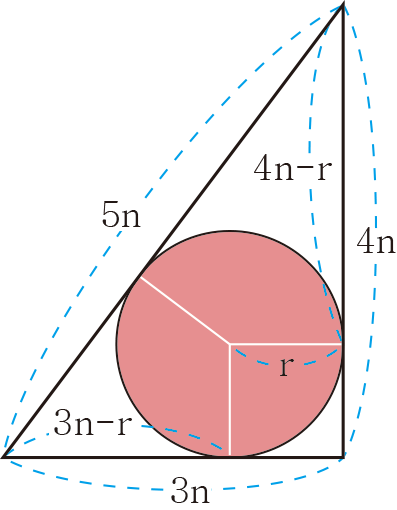
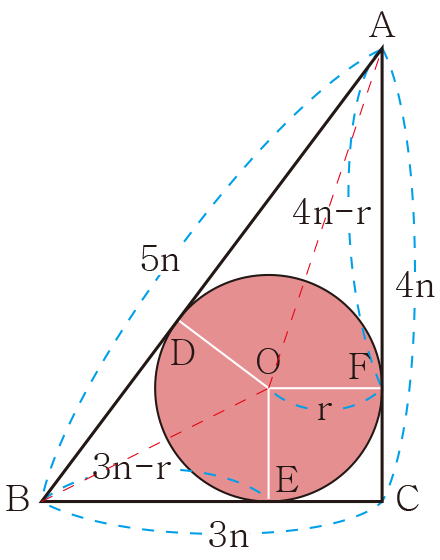
문구 수정

diff --git a/_posts/stem/math/2025-01-12-알콰리즈미의완전제곱식.md b/_posts/stem/math/2025-01-12-알콰리즈미의완전제곱식.md
@@ -20,18 +20,18 @@ use_math: true
 
 ### 1. 한 변의 길이가 x인 내부의 정사각형
 
-- 먼저 한 변의 길이가 $ x $인 정사각형을 생각해 보자.
-- 이 정사각형의 상하좌우로 $ \displaystyle\frac{5}{2} $만큼씩 연장하여 한 변의 길이가 $ x $이고, 넓이가 $ \displaystyle\frac{5x}{2} $인 직사각형을 붙인다. <br/>
-  (왜 $ \displaystyle\frac{5}{2} $ ($ =\displaystyle\frac{10}{4} $)인지는 아래 다시 설명할 것이다)
-- 그럼 가운데 정사각형과 4개의 직사각형의 합은 $ x^2 + 4 \times \displaystyle\frac{5x}{2} $이므로 정리하면 $ x^2 + 10x $이고, 이 값은 $ \color{red}{39} $이다.
+- 먼저 한 변의 길이가 $ x $인 정사각형을 생각해 봅시다.
+- 이 정사각형의 상하좌우로 $ \displaystyle\frac{5}{2} $만큼씩 연장하여 한 변의 길이가 $ x $이고, 넓이가 $ \displaystyle\frac{5x}{2} $인 직사각형을 붙입니다. <br/>
+  (왜 $ \displaystyle\frac{5}{2} $ ($ =\displaystyle\frac{10}{4} $)인지는 아래 "**3. 식으로 일반화 하기**"에 간단히 설명하겠습니다)
+- 그럼 가운데 정사각형과 4개의 직사각형의 합은 $ x^2 + 4 \times \displaystyle\frac{5x}{2} $이므로 정리하면 $ x^2 + 10x $이고, 이 값은 위에서 $ \color{red}{39} $로 정했습니다.
 
 ### 2. 확장한 영역까지 아우르는 외부의 정사각형
 
-- 이번에는 위에 그린 십자가 모양을 둘러싸는 정사각형을 생각해 보자.
-- 큰 정사각형의 한 변의 길이는 $ x + 2\times \displaystyle\frac{5}{2} = x + 5 $이고, 넓이는 $ \color{green}{(x + 5)^2} $이다.
-- 한 편, 큰 정사각형의 넓이는 위에서 구한 십자 모양의 넓이($ = \color{red}{39} $)와 네 귀퉁이의 작은 정사각형의 넓이의 합과 같다.
-- 네 귀퉁이의 정사각형의 한 변의 길이는 $ \displaystyle\frac{5}{2} $므로, 한 개 정사각형의 넓이는 $ \left(\displaystyle\frac{5}{2}\right)^2 = \displaystyle\frac{25}{4} $이다. 따라서 4개 정사각형의 넓이의 합은 $ 4 \times \displaystyle\frac{25}{4} = \color{blue}{25} $다.
-- 따라서 <span style="color:green">(큰 정사각형의 넓이)</span> = <span style="color:red">(십자 모양의 넓이)</span> + <span style="color:blue">(네 귀퉁이 정사각형의 넓이의 합)</span> 이므로,
+- 이번에는 위에 그린 십자가 모양을 둘러싸는 정사각형을 생각해 봅시다.
+- 큰 정사각형의 한 변의 길이는 $ x + 2\times \displaystyle\frac{5}{2} = x + 5 $이고, 그렇다면 넓이는 $ \color{green}{(x + 5)^2} $입니다.
+- 한 편, 큰 정사각형의 넓이는 위에서 구한 십자 모양의 넓이($ = \color{red}{39} $)와 네 귀퉁이의 작은 정사각형의 넓이의 합과 같습니다.
+- 네 귀퉁이의 정사각형의 한 변의 길이는 $ \displaystyle\frac{5}{2} $므로, 한 개 정사각형의 넓이는 $ \left(\displaystyle\frac{5}{2}\right)^2 = \displaystyle\frac{25}{4} $입니다. 따라서 4개 정사각형의 넓이의 합은 $ 4 \times \displaystyle\frac{25}{4} = \color{blue}{25} $입니다.
+- <span style="color:green">(큰 정사각형의 넓이)</span> = <span style="color:red">(십자 모양의 넓이)</span> + <span style="color:blue">(네 귀퉁이 정사각형의 넓이의 합)</span> 이므로 각 값을 대입하면,
 
   $$
   \begin{aligned}
@@ -47,14 +47,15 @@ use_math: true
 
 ### 3. 식으로 일반화 하기
 
-- 여기서 눈여겨 볼 부분은 2차식을 $ x^2 + bx = c $로 표현할 때, 한 변이 $ x $인 정사각형의 연장 길이를 $ \displaystyle\frac{b}{4} $로 정했다는 것이다. 그렇다면 위에서 다룬 큰 정사각형의 넓이는 $ \left(x + \displaystyle\frac{b}{2}\right)^2 $가 된다. ($ 2 \times \displaystyle\frac{b}{4} = \displaystyle\frac{b}{2} $)
+- 여기서 눈여겨 볼 부분은 2차식을 $ x^2 + bx = c $로 표현할 때, 한 변이 $ x $인 정사각형의 연장 길이를 $ \displaystyle\frac{b}{4} $로 정했다는 것입니다. 이렇게 하면 작은 사각형이 모두 4개이므로, 넓이를 합하면 자연스럽게 $ b $만 남길 수 있습니다.
+- 이제 위에서 다룬 큰 정사각형의 넓이는 $ \left(x + \displaystyle\frac{b}{2}\right)^2 $가 됩니다. ($ 2 \times \displaystyle\frac{b}{4} = \displaystyle\frac{b}{2} $)
 
-- 그렇다면, 위 식은 아래와 같이 일반화된다.
+- 그렇다면, 위 식은 아래와 같이 일반화 됩니다.
 
   $$
   \begin{aligned}
-  \left(x + \frac{b}{2} \right)^2 &= c + \left(\frac{b}{2}\right)^2\qquad (1) \\
-  x + \frac{b}{2} &= \sqrt{c + \left(\frac{b}{2}\right)^2}\qquad (2) \\
+  \left(x + \frac{b}{2} \right)^2 &= c + \left(\frac{b}{2}\right)^2 &\qquad (1) \\
+  x + \frac{b}{2} &= \sqrt{c + \left(\frac{b}{2}\right)^2} &\qquad (2) \\
   x &= \sqrt{c + \left(\frac{b}{2}\right)^2} - \frac{b}{2}
   \end{aligned}
   $$
@@ -63,16 +64,18 @@ use_math: true
 
 ### 4. 근이 두 개인 점 고려하기
 
-- 그리고 한 가지 더 주의할 점이 있는데, 이 식은 이차방정식이므로 $ x $는 근이 한 개가 아니라 두 개라는 점이다. 3. 풀이 중 첫번째에서 두번째로 제곱을 벗겨낼 때 우변은 +만 있는 것이 아니라 -도 있다. <br/>
-  즉, $ x + \displaystyle\frac{b}{2} = \sqrt{c + \left(\displaystyle\frac{b}{2}\right)^2} $가 되지만, $ x + \displaystyle\frac{b}{2} = -\sqrt{c + \left(\displaystyle\frac{b}{2}\right)^2} $도 가능하다. <br/>
-  (그러므로 위의 "**알 콰리즈미의 식**"의 해는 **-13**도 맞다! 다만 넓이를 이용하였기 때문에 음수가 어색한 것이다) <br/>
+- 여기서 한 가지 더 주의할 점이 있습니다. 이 식은 이차방정식이므로 $ x $는 근이 한 개가 아니라 두 개 입니다. **3.** 풀이 중 **(1)**에서 **(2)**로 제곱을 벗겨낼 때 우변은 **+**만 있는 것이 아니라 **-**도 있습니다. <br/><br/>
+
+  즉, $ x + \displaystyle\frac{b}{2} = \sqrt{c + \left(\displaystyle\frac{b}{2}\right)^2} $가 되지만, $ x + \displaystyle\frac{b}{2} = -\sqrt{c + \left(\displaystyle\frac{b}{2}\right)^2} $도 가능합니다. <br/><br/>
+
+  (그러므로 위의 "**알 콰리즈미의 식**"의 해는 **-13**도 맞습니다! 다만 넓이를 이용하였기 때문에 음수가 어색한 것입니다) <br/>
   
-- 따라서, 정리하면 $ x $는 다음과 같다.
+- 따라서, 정리하면 $ x $는 다음과 같습니다.
 
   $$
   \begin{aligned}
-  \left(x + \frac{b}{2} \right)^2 &= c + \left(\frac{b}{2}\right)^2 \\
-  x + \frac{b}{2} &= \pm\sqrt{c + \left(\frac{b}{2}\right)^2} \\
+  \left(x + \frac{b}{2} \right)^2 &= c + \left(\frac{b}{2}\right)^2 &\qquad (1) \\
+  x + \frac{b}{2} &= \pm\sqrt{c + \left(\frac{b}{2}\right)^2} &\qquad (2) \\
   x &= \pm\sqrt{c + \left(\frac{b}{2}\right)^2} - \frac{b}{2}
   \end{aligned}
   $$
@@ -81,7 +84,7 @@ use_math: true
 
 ## 일반적인 "근의 공식"의 유도
 
-- 이제 한 걸음 더 나아가 일반적인 방정식의 형태인 $ \pmb{\color{red}{a}}x^2 + \pmb{\color{red}{b}}x + \pmb{\color{red}{c}} = 0 $에서 시작하여 위에 구한 식에 적용해 보려 한다. 먼저 $ x^2 + bx = c $ 형식으로 정리하면,
+- 이제 한 걸음 더 나아가 일반적인 방정식의 형태인 $ \pmb{\color{red}{a}}x^2 + \pmb{\color{red}{b}}x + \pmb{\color{red}{c}} = 0 $에서 시작하여 위에 구한 식에 적용해 보려 합니다. 먼저 $ x^2 + bx = c $ 형식으로 정리하면,
 
   $$
   \begin{aligned}
@@ -90,7 +93,7 @@ use_math: true
   \end{aligned}
   $$
 
-  이 된다. 이제 $ \displaystyle\frac{\pmb{\color{red}{b}}}{\pmb{\color{red}{a}}} \rightarrow b $, $ -\displaystyle\frac{\pmb{\color{red}{c}}}{\pmb{\color{red}{a}}} \rightarrow c $에 각각 대입하면,
+  이 됩니다. 이제 $ \displaystyle\frac{\pmb{\color{red}{b}}}{\pmb{\color{red}{a}}} \rightarrow b $, $ -\displaystyle\frac{\pmb{\color{red}{c}}}{\pmb{\color{red}{a}}} \rightarrow c $에 각각 대입하면,
 
   $$
   \begin{aligned}
@@ -102,7 +105,7 @@ use_math: true
   \end{aligned}
   $$
 
-> 교과서에서 본 "**근의 공식**"이 나온다. 즉.
+> 교과서에서 본 "**근의 공식**"이 나옵니다. 즉.
 
 $$
 \begin{aligned}

diff --git a/_posts/stem/math/2025-01-12-구고의정리.md b/_posts/stem/math/2025-01-12-구고의정리.md
@@ -15,21 +15,22 @@ use_math: true
 ## SUMMARY
 
 - 직각삼각형에서 **밑변의 제곱**과 **높이의 제곱**의 합은 **빗변의 제곱**과 같습니다.
-- 우리는 이것을 **피타고라스의 정리**라고 알고 있습니다.
-- 이것을 중국에서는 **구고의 정리**라고 하는 방법으로 설명하고 있습니다. 그 방법을 알아봅시다.
+- 우리는 이것을 일반적으로 **피타고라스의 정리**라고 알고 있습니다.
+- 그런데 중국에서는 **구고의 정리**라고 하는 방법으로 설명하고 있습니다. 그 방법을 알아봅시다.
 
 <br/>
 
 ## 1. 풀이
 
-- 밑변이 $ x $, 높이가 $ y $인 직각삼각형이 있다.
-- 직각삼각형을 $ 90^\circ $ 회전하여 이전 직각삼각형의 직각이 아닌 다른 각과 겹치고 밑변이 높이와 겹치게 모두 4개를 그린다. 그럼 이 4개 직각삼각형의 빗변을 한 변으로 하는 정사각형이 생긴다. 이 정사각형의 한 변의 길이를 $ z $라고 하자. ($ z $는 직각삼각형의 빗변이기도 하다. 이 사각형이 왜 정사각형인지에 대한 설명은 생략)
-- 이 4개 직각삼각형의 내부에 작은 정사각형이 생기는데, 이 작은 정사각형의 넓이를 $ A $라고 하자. $ A $의 한 변의 길이는,
+- 밑변이 $ x $, 높이가 $ y $인 직각삼각형이 있습니다.
+- 직각삼각형을 $ 90^\circ $ 회전하여 이전 직각삼각형의 직각이 아닌 다른 각과 겹치고 밑변이 높이와 겹치게 모두 4개를 그립니다. 그럼 이 4개 직각삼각형의 빗변을 한 변으로 하는 정사각형이 생깁니다. 이 정사각형의 한 변의 길이를 $ z $라고 합시다. <br/>
+  ($ z $는 직각삼각형의 빗변이기도 합니다. 이 사각형이 왜 정사각형인지에 대한 설명은 생략합니다)
+- 이 4개 직각삼각형의 내부에 작은 정사각형이 생기는데, 이 작은 정사각형의 넓이를 $ A $라고 합시다. $ A $의 한 변의 길이는,
   $ \vert x-y \vert $
   이므로,
   $ A = (x-y)^2 $
-  이다.
-- 그렇다면, 4개의 직각삼각형의 빗변으로 그려지는 정사각형의 넓이는 직각삼각형 4개와 $A$의 합과 같으므로 다음과 같이 정리할 수 있다.
+  입니다.
+- 그렇다면, 4개의 직각삼각형의 빗변으로 그려지는 정사각형의 넓이는 직각삼각형 4개와 $A$의 합과 같으므로 다음과 같이 정리할 수 있습니다.
 
   $$
   \begin{aligned}
@@ -46,12 +47,14 @@ use_math: true
 
 ## 2. 3:4:5 직각삼각형의 경우
 
-- 위의 내용을 좀 더 쉽게 접근하기 위해, $ x:y = 3:4 $인 경우를 살펴보자. <br/>
-(이 예는 중국의 고서에 나오는 얘기고, "**구고(勾股)의 정리**"라고 한다. 참고로 여기서 "구고"는 사람 이름 같은 것은 아니고, "**중국식 직각자**"를 가리킨다)
+- 위의 내용을 좀 더 쉽게 접근하기 위해, $ x:y = 3:4 $인 경우를 살펴봅시다. <br/>
+  사실 "**구고(勾股)의 정리**"는 이런 경우를 한정하여 직각삼각형의 변에 관한 성질을 설명하고 있습니다. <br/>
+  (참고로 여기서 "구고"는 사람 이름 같은 것은 아니고, "**중국식 직각자**"를 가리킵니다)
 
 ![alt]({{ site.url }}{{ site.baseurl }}/assets/images/stem/math/math-2025-01-12-02.png)
 
-- 주어진 도식에서 한 개의 직각삼각형의 넓이는 6칸이고, 4개 직각삼각형 사이의 작은 정사각형의 넓이는 1칸이다. 따라서 4개 직각삼각형과 작은 정사각형의 넓이는 $ 4 \times 6 + 1 = 25 $칸이고, 이것은 4개 직각삼각형의 빗변으로 이루어진 정사각형의 넓이이므로, 빗변의 길이는 $ \sqrt{25} = 5 $가 된다. 그러므로, "**피타고라스의 정리**"에 대입해 보면,
+- 주어진 도식에서 한 개의 직각삼각형의 넓이는 6칸이고, 4개 직각삼각형 사이의 작은 정사각형의 넓이는 1칸 입니다. 따라서 4개 직각삼각형과 작은 정사각형의 넓이는 $ 4 \times 6 + 1 = 25 $칸이고, 이것은 4개 직각삼각형의 빗변으로 이루어진 정사각형의 넓이이므로, 빗변의 길이는 $ \sqrt{25} = 5 $가 됩니다.
+- 이렇게 구해진 값을 "**피타고라스의 정리**"에 대입해 보면,
 
   $$
   \begin{aligned}

diff --git a/_posts/stem/math/2025-01-12-345직각삼각형의내접원.md b/_posts/stem/math/2025-01-12-345직각삼각형의내접원.md
@@ -14,11 +14,13 @@ use_math: true
 
 ## 풀이
 
-- $ 3:4:5 $ 직각삼각형에 내접하는 원의 반경을 $ r $이라고 하자. 그럼 해당 직각삼각형의 빗변을 $ 5n $이라고 하면,
+- $ 3:4:5 $ 직각삼각형에 내접하는 원의 반경을 $ r $이라고 하겠습니다.
+- 그리고 직각삼각형의 빗변은 $ 5n $이라고 하겠습니다.
+- 이 때, 삼각형 $ ABC $의 중심이자 내접원의 중점인 $ O $를 이용하여 삼각형 $ ADO $와 삼각형 $ AFO $는 합동이므로 $ \overline{AD} \equiv \overline{AF} $ 이고, 마찬가지로 $ \overline{BD} \equiv \overline{BE} $ 이므로, $ \overline{AB} = \overline{AF} + \overline{BE} $ 입니다. 따라서,
 
   $$
   \begin{aligned}
-  5n &= (3n - r) + (4n - r) \\
+  5n &= (4n - r) + (3n - r) \\
   5n &= 7n - 2r \\
   2n &= 2r \\
   n &= r
@@ -27,10 +29,12 @@ use_math: true
 
   <br/>
 
-- 한 편 원의 면적은 $ S = πr^2 $이고 $ r = n $이므로,
+- 한 편 원의 면적은 $ S = πr^2 $이고 앞서 $ r = n $이므로,
 
-  $$ S = πn^2 $$
+  $$
+  S = πn^2
+  $$
   
-  즉, $ n = 1 $이면 $ 3:4:5 $ 직각 삼각형의 내접원의 넓이가 $ π $ 다.
+  즉, $ n = 1 $이면 $ 3:4:5 $ 직각 삼각형의 내접원의 넓이가 $ π $ 입니다.
 
 <br/>
